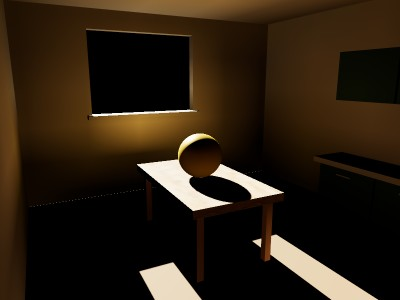
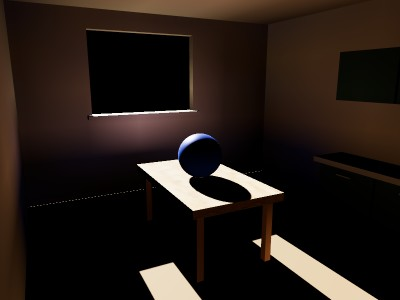
Examples: Extend kitchen floor joins and make sphere blue.

diff --git a/examples/jsm/environments/KitchenScene.js b/examples/jsm/environments/KitchenScene.js
@@ -30,12 +30,13 @@ class KitchenScene extends Scene {
 
 		const wallOverlap = 0.2;
 
-		const wall = ( width, height, position, rotation, source ) => {
+		const wall = ( width, height, position, rotation, source, bottomOverlap = 0 ) => {
 
 			const material = source.clone();
 			material.shadowSide = DoubleSide;
-			const mesh = new Mesh( new PlaneGeometry( width + wallOverlap * 2, height + wallOverlap * 2 ), material );
+			const mesh = new Mesh( new PlaneGeometry( width + wallOverlap * 2, height + wallOverlap * 2 + bottomOverlap ), material );
 			mesh.position.set( ...position );
+			mesh.position.y -= bottomOverlap / 2;
 			mesh.rotation.set( ...rotation );
 			mesh.castShadow = true;
 			mesh.receiveShadow = true;
@@ -46,16 +47,17 @@ class KitchenScene extends Scene {
 		// Inward-facing surfaces let an exterior camera see into the room.
 		// Both faces still cast shadows; the window wall retains its solid geometry.
 		// Extend each plane past neighboring walls, floor and ceiling to seal the seams.
+		// The floor overhangs the wall edges, and vertical walls extend below its underside.
 
-		box( [ 8.4, 0.2, 6.4 ], [ 0, - 0.1, 0 ], floor );
+		box( [ 9, 0.2, 7 ], [ 0, - 0.1, 0 ], floor );
 		wall( 8, 6, [ 0, 4, 0 ], [ Math.PI / 2, 0, 0 ], plaster );
-		wall( 6, 4, [ 4, 2, 0 ], [ 0, - Math.PI / 2, 0 ], plaster );
-		wall( 8, 4, [ 0, 2, - 3 ], [ 0, 0, 0 ], plaster );
-		wall( 8, 4, [ 0, 2, 3 ], [ 0, Math.PI, 0 ], plaster );
+		wall( 6, 4, [ 4, 2, 0 ], [ 0, - Math.PI / 2, 0 ], plaster, wallOverlap );
+		wall( 8, 4, [ 0, 2, - 3 ], [ 0, 0, 0 ], plaster, wallOverlap );
+		wall( 8, 4, [ 0, 2, 3 ], [ 0, Math.PI, 0 ], plaster, wallOverlap );
 
 		// A real opening in the left wall, with no invisible fill light or window glass.
 
-		box( [ 0.2, 1.8, 6.4 ], [ - 4.1, 0.9, 0 ], plaster );
+		box( [ 0.2, 2.2, 6.4 ], [ - 4.1, 0.7, 0 ], plaster );
 		box( [ 0.2, 0.4, 6.4 ], [ - 4.1, 3.8, 0 ], plaster );
 		box( [ 0.2, 1.8, 2.4 ], [ - 4.1, 2.7, - 2 ], plaster );
 		box( [ 0.2, 1.8, 1.6 ], [ - 4.1, 2.7, 2.4 ], plaster );
@@ -70,7 +72,7 @@ class KitchenScene extends Scene {
 
 		}
 
-		const sphere = new Mesh( new SphereGeometry( 0.35, 32, 32 ), new MeshStandardMaterial( { color: 0xffd700, metalness: 0.3, roughness: 0.4 } ) );
+		const sphere = new Mesh( new SphereGeometry( 0.35, 32, 32 ), new MeshStandardMaterial( { color: 0x3366ff, metalness: 0.3, roughness: 0.4 } ) );
 		sphere.position.set( - 1.25, 1.41, 0.4 );
 		sphere.castShadow = true;
 		sphere.receiveShadow = true;
